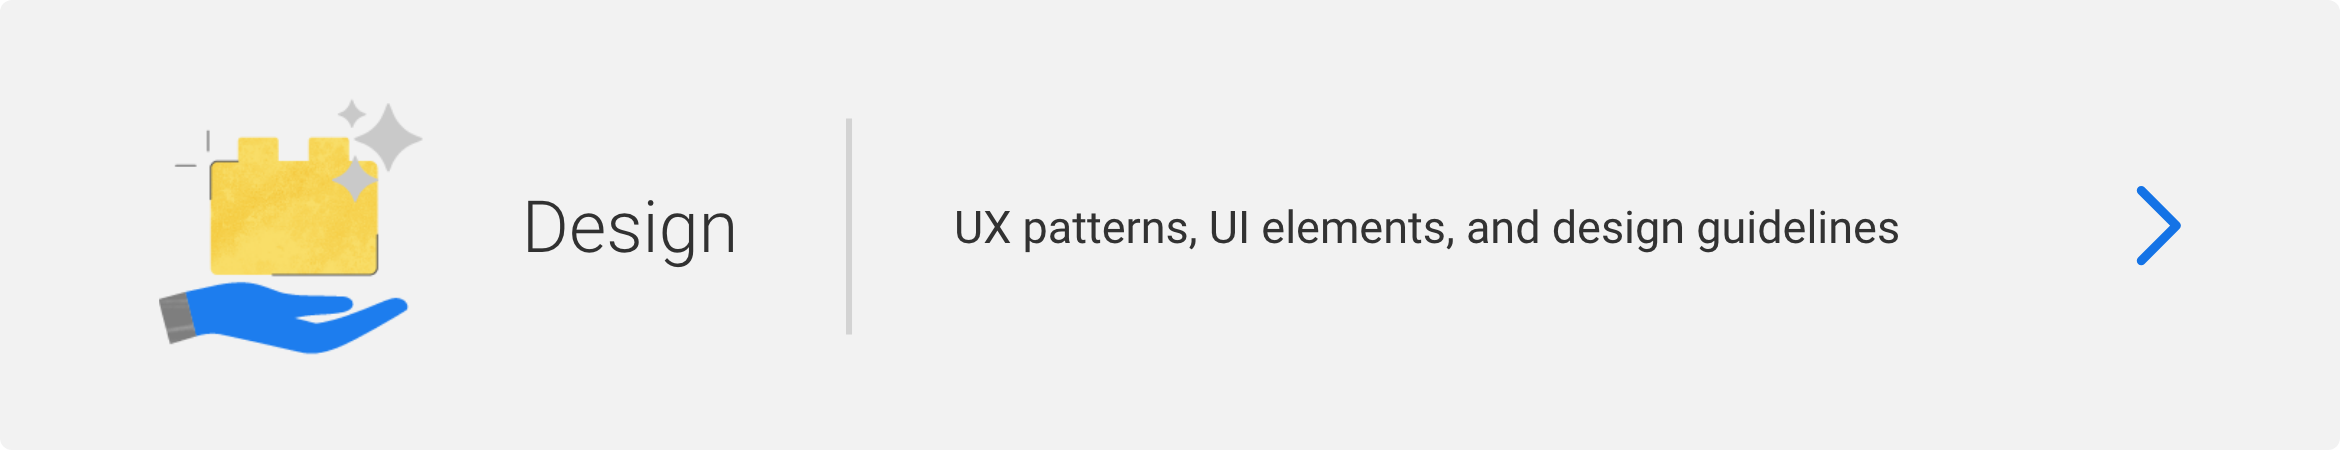
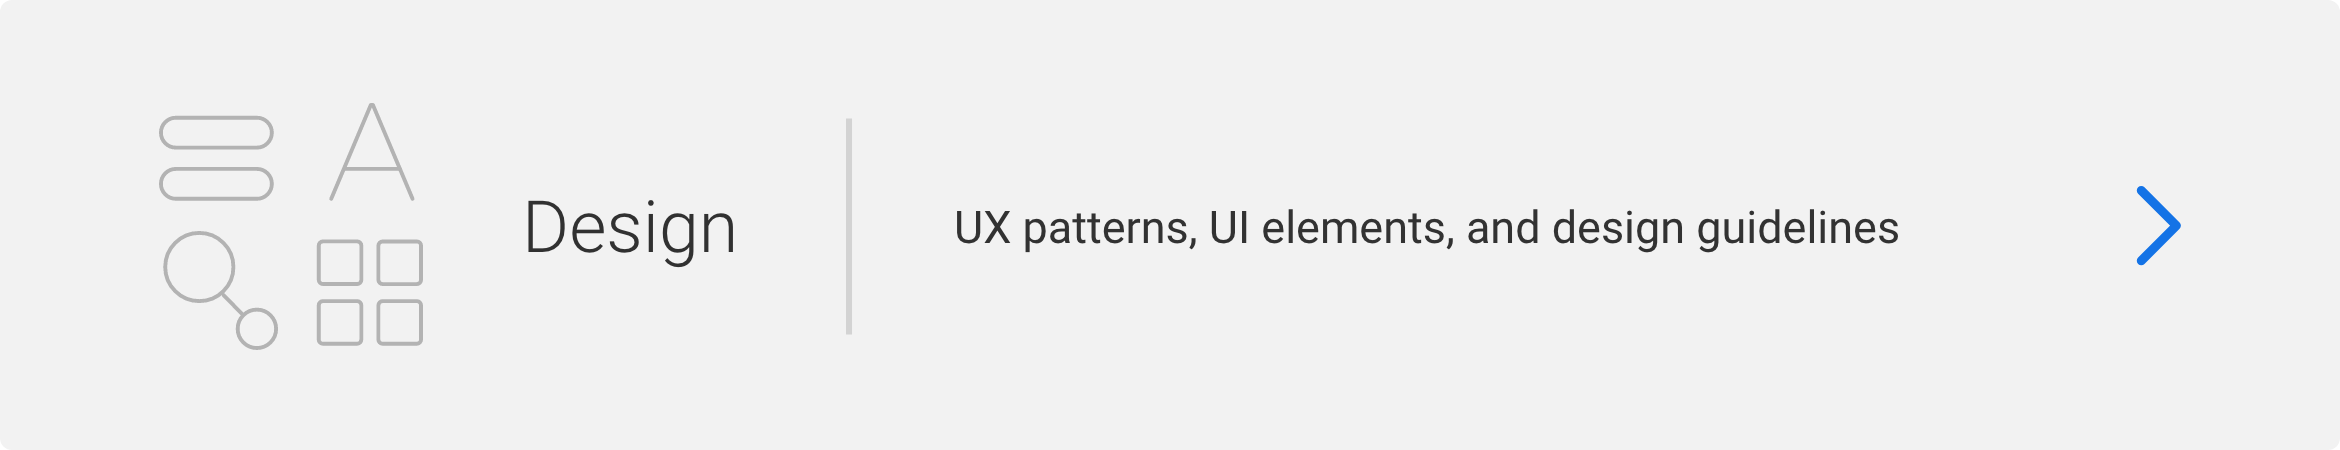
images replaced

Changed region(s): [[0.0624, 0.2178, 0.1872, 0.8089]]

diff --git a/README.md b/README.md
@@ -20,7 +20,7 @@ Shape the future of design by creating plugins for yourself, your team, or the w
 
 <br />
 
-<object style="width: 100%" type="image/png" data="/images/code@2x.svg">placeholder</object>
+<object style="width: 100%" type="image/png" data="/images/code@3x.png">placeholder</object>
 
 **Quick start: create your first plugin**
 
@@ -30,7 +30,7 @@ We’ll keep things simple in this Quick Start tutorial. Once you’re done, you
 
 <br />
 
-<object style="width: 100%" type="image/png" data="/images/kit@3x.png">placeholder</object>
+<object style="width: 100%" type="image/png" data="/images/kit-new@3x.png">placeholder</object>
 
 **Design using the XD plugin UI kit**
 
@@ -40,7 +40,7 @@ XD plugins are used by designers around the world who expect great experiences. 
 
 <br />
 
-<object style="width: 100%" type="image/png" data="/images/manage@3x.png">placeholder</object>
+<object style="width: 100%" type="image/png" data="/images/manage-new@3x.png">placeholder</object>
 
 **Manage your plugin project**
 
